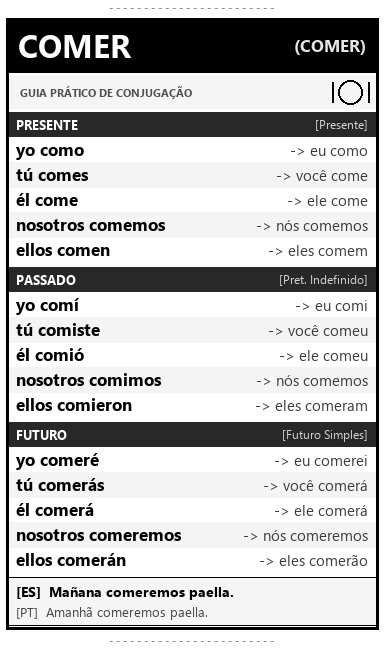
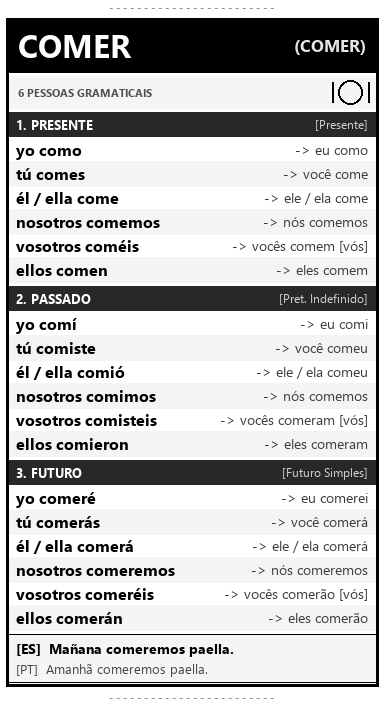
feat: add 6th grammatical person (vosotros) to Spanish verb strips

Changed region(s): [[0.0, 0.0, 1.0, 1.0]]

diff --git a/generate_verb_strip.py b/generate_verb_strip.py
@@ -1,6 +1,7 @@
 """
 Gerador de Tiras de Estudo de Verbos em Espanhol para Phomemo M02
-Versão COMPACTA: Fontes grandes com aproveitamento MÁXIMO do papel (sem sobras vazias).
+Versão COMPLETA com as 6 PESSOAS GRAMATICAIS (incluindo Vosotros).
+Compacta e sem desperdício de papel.
 Largura: 384px (203 DPI)
 """
 
@@ -27,22 +28,25 @@ VERBS_DATA = {
         "present": [
             ("yo hablo", "eu falo"),
             ("tú hablas", "você fala"),
-            ("él habla", "ele fala"),
+            ("él / ella habla", "ele / ela fala"),
             ("nosotros hablamos", "nós falamos"),
+            ("vosotros habláis", "vocês falam [vós]"),
             ("ellos hablan", "eles falam")
         ],
         "past": [
             ("yo hablé", "eu falei"),
             ("tú hablaste", "você falou"),
-            ("él habló", "ele falou"),
+            ("él / ella habló", "ele / ela falou"),
             ("nosotros hablamos", "nós falamos"),
+            ("vosotros hablasteis", "vocês falaram [vós]"),
             ("ellos hablaron", "eles falaram")
         ],
         "future": [
             ("yo hablaré", "eu falarei"),
             ("tú hablarás", "você falará"),
-            ("él hablará", "ele falará"),
+            ("él / ella hablará", "ele / ela falará"),
             ("nosotros hablaremos", "nós falaremos"),
+            ("vosotros hablaréis", "vocês falarão [vós]"),
             ("ellos hablarán", "eles falarão")
         ],
         "example_es": "Ayer hablé con María.",
@@ -55,22 +59,25 @@ VERBS_DATA = {
         "present": [
             ("yo como", "eu como"),
             ("tú comes", "você come"),
-            ("él come", "ele come"),
+            ("él / ella come", "ele / ela come"),
             ("nosotros comemos", "nós comemos"),
+            ("vosotros coméis", "vocês comem [vós]"),
             ("ellos comen", "eles comem")
         ],
         "past": [
             ("yo comí", "eu comi"),
             ("tú comiste", "você comeu"),
-            ("él comió", "ele comeu"),
+            ("él / ella comió", "ele / ela comeu"),
             ("nosotros comimos", "nós comemos"),
+            ("vosotros comisteis", "vocês comeram [vós]"),
             ("ellos comieron", "eles comeram")
         ],
         "future": [
             ("yo comeré", "eu comerei"),
             ("tú comerás", "você comerá"),
-            ("él comerá", "ele comerá"),
+            ("él / ella comerá", "ele / ela comerá"),
             ("nosotros comeremos", "nós comeremos"),
+            ("vosotros comeréis", "vocês comerão [vós]"),
             ("ellos comerán", "eles comerão")
         ],
         "example_es": "Mañana comeremos paella.",
@@ -83,22 +90,25 @@ VERBS_DATA = {
         "present": [
             ("yo vivo", "eu moro"),
             ("tú vives", "você mora"),
-            ("él vive", "ele mora"),
+            ("él / ella vive", "ele / ela mora"),
             ("nosotros vivimos", "nós moramos"),
+            ("vosotros vivís", "vocês moram [vós]"),
             ("ellos viven", "eles moram")
         ],
         "past": [
             ("yo viví", "eu morei"),
             ("tú viviste", "você morou"),
-            ("él vivió", "ele morou"),
+            ("él / ella vivió", "ele / ela morou"),
             ("nosotros vivimos", "nós moramos"),
+            ("vosotros vivisteis", "vocês moraram [vós]"),
             ("ellos vivieron", "eles moraram")
         ],
         "future": [
             ("yo viviré", "eu morarei"),
             ("tú vivirás", "você morará"),
-            ("él vivirá", "ele morará"),
+            ("él / ella vivirá", "ele / ela morará"),
             ("nosotros viviremos", "nós moraremos"),
+            ("vosotros viviréis", "vocês morarão [vós]"),
             ("ellos vivirán", "eles morarão")
         ],
         "example_es": "Yo viví dos años en Madrid.",
@@ -107,7 +117,6 @@ VERBS_DATA = {
 }
 
 def draw_mini_speech_icon(draw: ImageDraw.ImageDraw, x: int, y: int):
-    # Ícone compacto integrado ao cabeçalho (36x24px)
     draw.rounded_rectangle([(x, y), (x + 32, y + 20)], radius=5, outline=(0, 0, 0), width=2, fill=(255, 255, 255))
     draw.polygon([(x + 6, y + 19), (x + 11, y + 26), (x + 16, y + 19)], fill=(255, 255, 255), outline=(0, 0, 0))
     draw.line([(x + 7, y + 19), (x + 15, y + 19)], fill=(255, 255, 255), width=2)
@@ -117,9 +126,7 @@ def draw_mini_speech_icon(draw: ImageDraw.ImageDraw, x: int, y: int):
 def draw_mini_food_icon(draw: ImageDraw.ImageDraw, x: int, y: int):
     cx, cy = x + 18, y + 12
     draw.ellipse([(cx - 12, cy - 12), (cx + 12, cy + 12)], outline=(0, 0, 0), width=2)
-    # garfo
     draw.line([(cx - 18, cy - 10), (cx - 18, cy + 10)], fill=(0, 0, 0), width=2)
-    # faca
     draw.line([(cx + 18, cy - 10), (cx + 18, cy + 10)], fill=(0, 0, 0), width=2)
 
 def draw_mini_house_icon(draw: ImageDraw.ImageDraw, x: int, y: int):
@@ -131,35 +138,26 @@ def draw_mini_house_icon(draw: ImageDraw.ImageDraw, x: int, y: int):
 def generate_verb_strip(verb_key: str) -> Image.Image:
     data = VERBS_DATA[verb_key]
     
-    # Criamos um canvas temporário alto e cortamos dinamicamente no final
-    canvas_h = 1300
+    canvas_h = 1400
     img = Image.new('RGB', (WIDTH, canvas_h), color=(255, 255, 255))
     draw = ImageDraw.Draw(img)
 
     y = 6
-
-    # 1. Linha de corte inicial compacta
     draw.text((WIDTH // 2, y), "- - - - - - - - - - - - - - - - - - - - - - - -", fill=(140, 140, 140), anchor="mm", font=get_font(11))
     y += 12
 
-    # Início da moldura principal
     card_start_y = y
     
-    # 2. Barra de Título Superior Integrada (Economiza muito espaço vertical!)
+    # Barra de Título Superior Integrada
     draw.rectangle([(6, y), (WIDTH - 6, y + 54)], fill=(0, 0, 0))
-    
-    # Verbo em Espanhol (32pt Bold branco)
     draw.text((18, y + 27), data["verb"], fill=(255, 255, 255), anchor="lm", font=get_font(32, bold=True))
-    
-    # Tradução PT (17pt Bold branco)
     draw.text((WIDTH - 18, y + 27), f"({data['pt']})", fill=(230, 230, 230), anchor="rm", font=get_font(17, bold=True))
     y += 58
 
-    # 3. Faixa de Ícone e Tag compacta
+    # Faixa de subtítulo + Ícone
     draw.rectangle([(6, y), (WIDTH - 6, y + 32)], fill=(245, 245, 245))
-    draw.text((20, y + 16), "GUIA PRÁTICO DE CONJUGAÇÃO", fill=(80, 80, 80), anchor="lm", font=get_font(11, bold=True))
+    draw.text((18, y + 16), "6 PESSOAS GRAMATICAIS", fill=(80, 80, 80), anchor="lm", font=get_font(11, bold=True))
     
-    # Desenha o ícone compacto alinhado à direita
     if data["icon"] == "speech":
         draw_mini_speech_icon(draw, WIDTH - 52, y + 4)
     elif data["icon"] == "food":
@@ -168,9 +166,8 @@ def generate_verb_strip(verb_key: str) -> Image.Image:
         draw_mini_house_icon(draw, WIDTH - 52, y + 4)
     y += 36
 
-    # 4. Blocos de Conjugação (Fontes grandes: 17pt espanhol / 15pt português, sem espaços vazios)
+    # 4. Blocos com as 6 Pessoas
     def render_tense_block(cur_y: int, title_es: str, title_pt: str, conjugations: list) -> int:
-        # Header compacto do tempo verbal
         draw.rectangle([(6, cur_y), (WIDTH - 6, cur_y + 24)], fill=(40, 40, 40))
         draw.text((16, cur_y + 12), title_es, fill=(255, 255, 255), anchor="lm", font=get_font(13, bold=True))
         draw.text((WIDTH - 16, cur_y + 12), f"[{title_pt}]", fill=(210, 210, 210), anchor="rm", font=get_font(12))
@@ -180,22 +177,22 @@ def generate_verb_strip(verb_key: str) -> Image.Image:
             if idx % 2 == 1:
                 draw.rectangle([(6, cur_y - 1), (WIDTH - 6, cur_y + 24)], fill=(244, 244, 244))
             
-            # Espanhol: 17pt Bold
-            draw.text((16, cur_y + 11), es, fill=(0, 0, 0), anchor="lm", font=get_font(17, bold=True))
-            # Português: 15pt Regular
-            draw.text((WIDTH - 16, cur_y + 11), f"-> {pt}", fill=(60, 60, 60), anchor="rm", font=get_font(15))
-            cur_y += 25
+            # Espanhol (16pt Bold)
+            draw.text((16, cur_y + 11), es, fill=(0, 0, 0), anchor="lm", font=get_font(16, bold=True))
+            # Português (14pt)
+            draw.text((WIDTH - 16, cur_y + 11), f"-> {pt}", fill=(60, 60, 60), anchor="rm", font=get_font(14))
+            cur_y += 24
             
         return cur_y + 4
 
-    # Presente
-    y = render_tense_block(y, "PRESENTE", "Presente", data["present"])
-    # Passado
-    y = render_tense_block(y, "PASSADO", "Pret. Indefinido", data["past"])
-    # Futuro
-    y = render_tense_block(y, "FUTURO", "Futuro Simples", data["future"])
+    # 1. Presente
+    y = render_tense_block(y, "1. PRESENTE", "Presente", data["present"])
+    # 2. Passado
+    y = render_tense_block(y, "2. PASSADO", "Pret. Indefinido", data["past"])
+    # 3. Futuro
+    y = render_tense_block(y, "3. FUTURO", "Futuro Simples", data["future"])
 
-    # 5. Frase de Exemplo no cotidiano (Compacta e direta)
+    # 5. Frase de Exemplo no cotidiano
     draw.rectangle([(6, y), (WIDTH - 6, y + 48)], fill=(245, 245, 245), outline=(0, 0, 0), width=1)
     draw.text((16, y + 14), f"[ES]  {data['example_es']}", fill=(0, 0, 0), anchor="lm", font=get_font(14, bold=True))
     draw.text((16, y + 34), f"[PT]  {data['example_pt']}", fill=(70, 70, 70), anchor="lm", font=get_font(13))
@@ -205,11 +202,9 @@ def generate_verb_strip(verb_key: str) -> Image.Image:
     draw.rectangle([(6, card_start_y), (WIDTH - 6, y)], outline=(0, 0, 0), width=3)
     y += 10
 
-    # 6. Linha de corte final imediata (sem sobras vazias!)
     draw.text((WIDTH // 2, y), "- - - - - - - - - - - - - - - - - - - - - - - -", fill=(140, 140, 140), anchor="mm", font=get_font(11))
     y += 10
 
-    # Recorta exatamente na altura real utilizada
     return img.crop((0, 0, WIDTH, y))
 
 def main():
